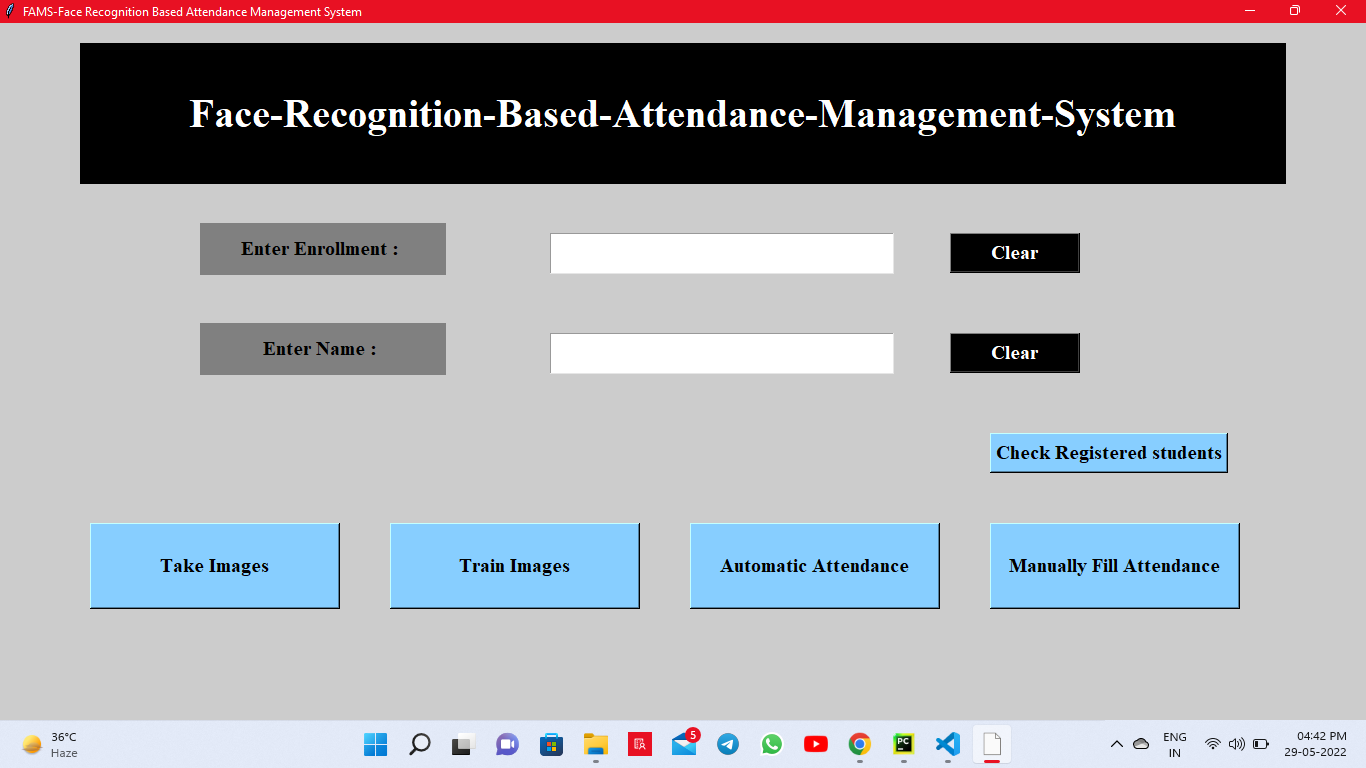
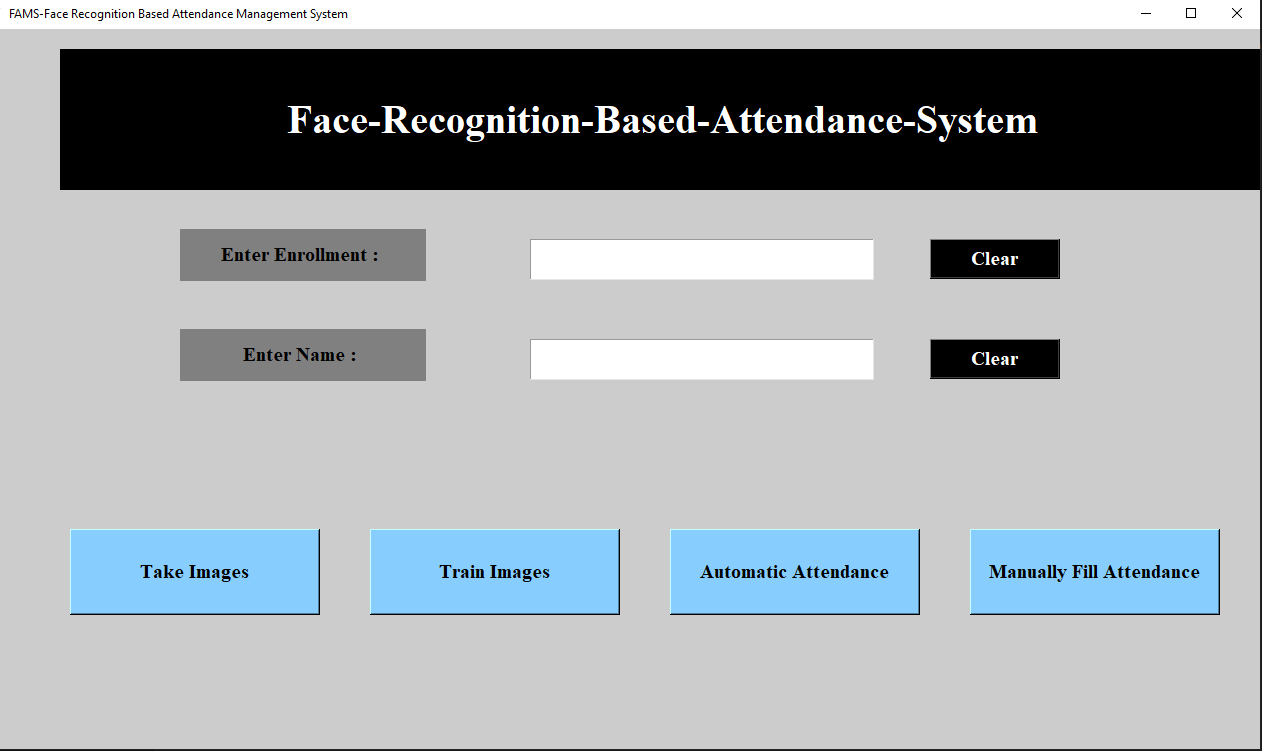
Enhance attendance system with MySQL and CSV integration for manual and automatic filling

diff --git a/AMS_Run.py b/AMS_Run.py
@@ -31,7 +31,7 @@ def create_error_window(message):
     Button(ec, text='OK', command=ec.destroy, fg="black", bg="lawn green", width=9, height=1, font=('times', 15, ' bold ')).place(x=90, y=50)
 
 # ==========================================
-# MANUALLY FILL ATTENDANCE (Original Logic)
+# MANUALLY FILL ATTENDANCE (CSV + MYSQL DATABASE)
 # ==========================================
 def manually_fill():
     sb = tk.Toplevel() 
@@ -41,17 +41,22 @@ def manually_fill():
 
     def fill_attendance():
         ts = time.time()
-        Date = datetime.datetime.fromtimestamp(ts).strftime('%Y_%m_%d')
+        Date = datetime.datetime.fromtimestamp(ts).strftime('%Y-%m-%d')
         timeStamp = datetime.datetime.fromtimestamp(ts).strftime('%H:%M:%S')
         Hour, Minute, Second = timeStamp.split(":")
         
         subb = SUB_ENTRY.get()
-        DB_table_name = str(subb + "_" + Date + "_Time_" + Hour + "_" + Minute + "_" + Second)
+        
+        # MySQL ke liye Date format theek karna (Dashes allowed nahi hote table name mein)
+        Date_DB = Date.replace('-', '_')
+        DB_table_name = str(subb + "_" + Date_DB + "_Time_" + Hour + "_" + Minute + "_" + Second)
 
+        import pymysql
         try:
+            # MySQL Database se connection
             connection = pymysql.connect(host='localhost', user='root', password='', db='manually_fill_attendance')
             cursor = connection.cursor()
-            sql = "CREATE TABLE " + DB_table_name + """
+            sql = "CREATE TABLE IF NOT EXISTS " + DB_table_name + """
                             (ID INT NOT NULL AUTO_INCREMENT,
                              ENROLLMENT varchar(100) NOT NULL,
                              NAME VARCHAR(50) NOT NULL,
@@ -60,7 +65,7 @@ def manually_fill():
                                  PRIMARY KEY (ID));"""
             cursor.execute(sql)
         except Exception as ex:
-            print(ex)
+            print("Database Connection Error:", ex)
 
         if subb == '':
             create_error_window('Please enter your subject name!!!')
@@ -95,15 +100,35 @@ def manually_fill():
                     create_error_window('Please enter Student & Enrollment!!!')
                 else:
                     time_str = datetime.datetime.fromtimestamp(time.time()).strftime('%H:%M:%S')
-                    Insert_data = "INSERT INTO " + DB_table_name + " (ID,ENROLLMENT,NAME,DATE,TIME) VALUES (0, %s, %s, %s,%s)"
-                    VALUES = (str(ENROLLMENT), str(STUDENT), str(Date), str(time_str))
+                    
+                    # 1. Save to MySQL Database
                     try:
+                        Insert_data = "INSERT INTO " + DB_table_name + " (ID,ENROLLMENT,NAME,DATE,TIME) VALUES (0, %s, %s, %s,%s)"
+                        VALUES = (str(ENROLLMENT), str(STUDENT), str(Date), str(time_str))
                         cursor.execute(Insert_data, VALUES)
                         connection.commit()
                     except Exception as e:
-                        print(e)
-                    ENR_ENTRY.delete(0, END)
-                    STUDENT_ENTRY.delete(0, END)
+                        print("MySQL Insert Error:", e)
+
+                    # 2. Save to CSV Folder
+                    import os
+                    import csv
+                    folder_path = os.path.join("Attendance", "Manually Attendance")
+                    if not os.path.exists(folder_path):
+                        os.makedirs(folder_path)
+                        
+                    csv_filename = os.path.join(folder_path, f"{subb}_{Date}.csv")
+                    file_exists = os.path.isfile(csv_filename)
+                    
+                    with open(csv_filename, 'a+', newline='') as csvFile:
+                        writer = csv.writer(csvFile)
+                        if not file_exists:
+                            writer.writerow(['Enrollment', 'Name', 'Date', 'Time'])
+                        writer.writerow([ENROLLMENT, STUDENT, Date, time_str])
+
+                    ENR_ENTRY.delete(0, 'end')
+                    STUDENT_ENTRY.delete(0, 'end')
+                    create_error_window(f"Success! {STUDENT} Saved in Database & CSV.")
 
             DATA_SUB = tk.Button(MFW, text="Enter Data", command=enter_data_DB, fg="black", bg="SkyBlue1", width=20, height=2, font=('times', 15, ' bold '))
             DATA_SUB.place(x=170, y=300)
@@ -204,7 +229,7 @@ def trainimg_logic():
     Notification.configure(text="AI Model Trained Successfully!", bg="olive drab", width=50)
 
 # ==========================================
-# 3. NEW AUTOMATIC ATTENDANCE LOGIC
+# AUTOMATIC ATTENDANCE (CSV + MYSQL DATABASE)
 # ==========================================
 def subjectchoose():
     windo = tk.Toplevel()
@@ -220,6 +245,11 @@ def subjectchoose():
             create_error_window('Please enter your subject name!!!')
             return
 
+        import face_recognition
+        import pickle
+        import numpy as np
+        import pymysql
+
         try:
             with open("encodings.pkl", "rb") as f:
                 known_encodings, known_names, known_ids = pickle.load(f)
@@ -228,18 +258,15 @@ def subjectchoose():
             return
 
         cam = cv2.VideoCapture(0)
-        if not cam.isOpened():
-            Notifica.configure(text="Camera Error!", bg="red")
-            return
-
         font = cv2.FONT_HERSHEY_SIMPLEX
         col_names = ['Enrollment', 'Name', 'Date', 'Time']
         attendance = pd.DataFrame(columns=col_names)
         
-        future = time.time() + 20 # 20 seconds window
+        future = time.time() + 20 # 20 seconds detection window
 
         while True:
             ret, im = cam.read()
+            if not ret: break
             small_frame = cv2.resize(im, (0, 0), fx=0.25, fy=0.25)
             rgb_small_frame = cv2.cvtColor(small_frame, cv2.COLOR_BGR2RGB)
             
@@ -248,7 +275,6 @@ def subjectchoose():
             
             for (top, right, bottom, left), face_encoding in zip(face_locations, face_encodings):
                 top *= 4; right *= 4; bottom *= 4; left *= 4
-                
                 matches = face_recognition.compare_faces(known_encodings, face_encoding, tolerance=0.5)
                 name, Id = "Unknown", "Unknown"
                 
@@ -269,51 +295,59 @@ def subjectchoose():
                 cv2.putText(im, f"{Id}-{name}", (left, top - 10), font, 1, color, 2)
                 
             cv2.imshow('Filling Attendance (Press ESC to stop)', im)
-            
             if time.time() > future or (cv2.waitKey(1) & 0xFF == 27):
                 break
 
         cam.release()
         cv2.destroyAllWindows()
 
-        # Save to DB and CSV
-        attendance = attendance.drop_duplicates(['Enrollment'], keep='first')
-        ts = time.time()
-        date = datetime.datetime.fromtimestamp(ts).strftime('%Y-%m-%d')
-        timeStamp = datetime.datetime.fromtimestamp(ts).strftime('%H:%M:%S')
-        Hour, Minute, Second = timeStamp.split(":")
-        
-        if not os.path.exists("Attendance"): os.makedirs("Attendance")
-        fileName = f"Attendance/{sub}_{date}_{Hour}-{Minute}-{Second}.csv"
-        attendance.to_csv(fileName, index=False)
-
-        # Database insertion
-        date_for_DB = datetime.datetime.fromtimestamp(ts).strftime('%Y_%m_%d')
-        DB_Table_name = str(sub + "_" + date_for_DB + "_Time_" + Hour + "_" + Minute + "_" + Second)
-        
-        try:
-            connection = pymysql.connect(host='localhost', user='root', password='', db='Face_reco_fill')
-            cursor = connection.cursor()
-            sql = "CREATE TABLE " + DB_Table_name + """
-            (ID INT NOT NULL AUTO_INCREMENT, ENROLLMENT varchar(100) NOT NULL, NAME VARCHAR(50) NOT NULL,
-             DATE VARCHAR(20) NOT NULL, TIME VARCHAR(20) NOT NULL, PRIMARY KEY (ID));"""
-            cursor.execute(sql)
+        if not attendance.empty:
+            attendance = attendance.drop_duplicates(['Enrollment'], keep='first')
+            ts = time.time()
+            date = datetime.datetime.fromtimestamp(ts).strftime('%Y-%m-%d')
+            timeStamp = datetime.datetime.fromtimestamp(ts).strftime('%H:%M:%S')
+            Hour, Minute, Second = timeStamp.split(":")
             
-            for index, row in attendance.iterrows():
-                insert_data = "INSERT INTO " + DB_Table_name + " (ID,ENROLLMENT,NAME,DATE,TIME) VALUES (0, %s, %s, %s,%s)"
-                cursor.execute(insert_data, (str(row['Enrollment']), str(row['Name']), str(row['Date']), str(row['Time'])))
-            connection.commit()
-        except Exception as e:
-            print("DB Error:", e)
+            # 1. Save to CSV
+            if not os.path.exists("Attendance"): os.makedirs("Attendance")
+            fileName = f"Attendance/{sub}_{date}_{Hour}-{Minute}-{Second}.csv"
+            attendance.to_csv(fileName, index=False)
 
-        Notifica.configure(text='Attendance Filled Successfully!', bg="Green")
+            # 2. Save to MySQL Database (face_reco_fill)
+            date_DB = date.replace('-', '_')
+            
+            # Error Fix: MySQL table name mein Space aur '&' allow nahi karta
+            # Is liye hum unhein underscore '_' se replace kar rahe hain
+            clean_sub = sub.replace(" ", "_").replace("&", "and")
+            DB_Table_name = str(clean_sub + "_" + date_DB + "_Time_" + Hour + "_" + Minute + "_" + Second)
+            
+            try:
+                # Aapki observation ke mutabiq database name lower case kar diya hai
+                connection = pymysql.connect(host='localhost', user='root', password='', db='face_reco_fill')
+                cursor = connection.cursor()
+                sql = "CREATE TABLE IF NOT EXISTS " + DB_Table_name + """
+                (ID INT NOT NULL AUTO_INCREMENT, ENROLLMENT varchar(100) NOT NULL, NAME VARCHAR(50) NOT NULL,
+                 DATE VARCHAR(20) NOT NULL, TIME VARCHAR(20) NOT NULL, PRIMARY KEY (ID));"""
+                cursor.execute(sql)
+                
+                for index, row in attendance.iterrows():
+                    insert_data = "INSERT INTO " + DB_Table_name + " (ID,ENROLLMENT,NAME,DATE,TIME) VALUES (0, %s, %s, %s,%s)"
+                    cursor.execute(insert_data, (str(row['Enrollment']), str(row['Name']), str(row['Date']), str(row['Time'])))
+                connection.commit()
+                connection.close()
+                Notifica.configure(text='Attendance Saved in DB & CSV!', bg="Green")
+            except Exception as e:
+                print("DB Error:", e)
+                Notifica.configure(text='DB Error! Check phpMyAdmin', bg="red")
+        else:
+            Notifica.configure(text='No Face Detected!', bg="orange")
 
     def thread_fill_attendance():
-        t = threading.Thread(target=fill_attendance_logic)
-        t.start()
+        import threading
+        threading.Thread(target=fill_attendance_logic).start()
 
-    sub = tk.Label(windo, text="Enter Subject : ", width=15, height=2, fg="black", bg="grey", font=('times', 15, ' bold '))
-    sub.place(x=30, y=100)
+    sub_label = tk.Label(windo, text="Enter Subject : ", width=15, height=2, fg="black", bg="grey", font=('times', 15, ' bold '))
+    sub_label.place(x=30, y=100)
     tx = tk.Entry(windo, width=20, bg="white", fg="black", font=('times', 23))
     tx.place(x=250, y=105)
     fill_a = tk.Button(windo, text="Fill Attendance", command=thread_fill_attendance, fg="white", bg="SkyBlue1", width=20, height=2, font=('times', 15, ' bold '))

diff --git a/README.md b/README.md
@@ -30,8 +30,11 @@ Attendance Management System based on Face Recognition using Python  and OpenCv
 ### Basic UI
 <img src="https://github.com/umerchaudhary04/Face-Recognition-Attendance-System/blob/main/Screenshot%20(31).png">
 
-### Manually attendance filling UI
-<img src="https://github.com/Pragya9ps/Face-Recognition-Attendance-System/blob/main/Screenshot%20(35).png">
+### Automatic Attendance Filling UI
+<imag src="https://github.com/Pragya9ps/Face-Recognition-Attendance-System/blob/main/Screenshot%20(02).jpg">
+
+### Manually Attendance Filling UI
+<img src="https://github.com/Pragya9ps/Face-Recognition-Attendance-System/blob/main/Screenshot%20(35).jpg">
 
 ### Notes
 - It will require high processing power(I have 8 GB RAM)